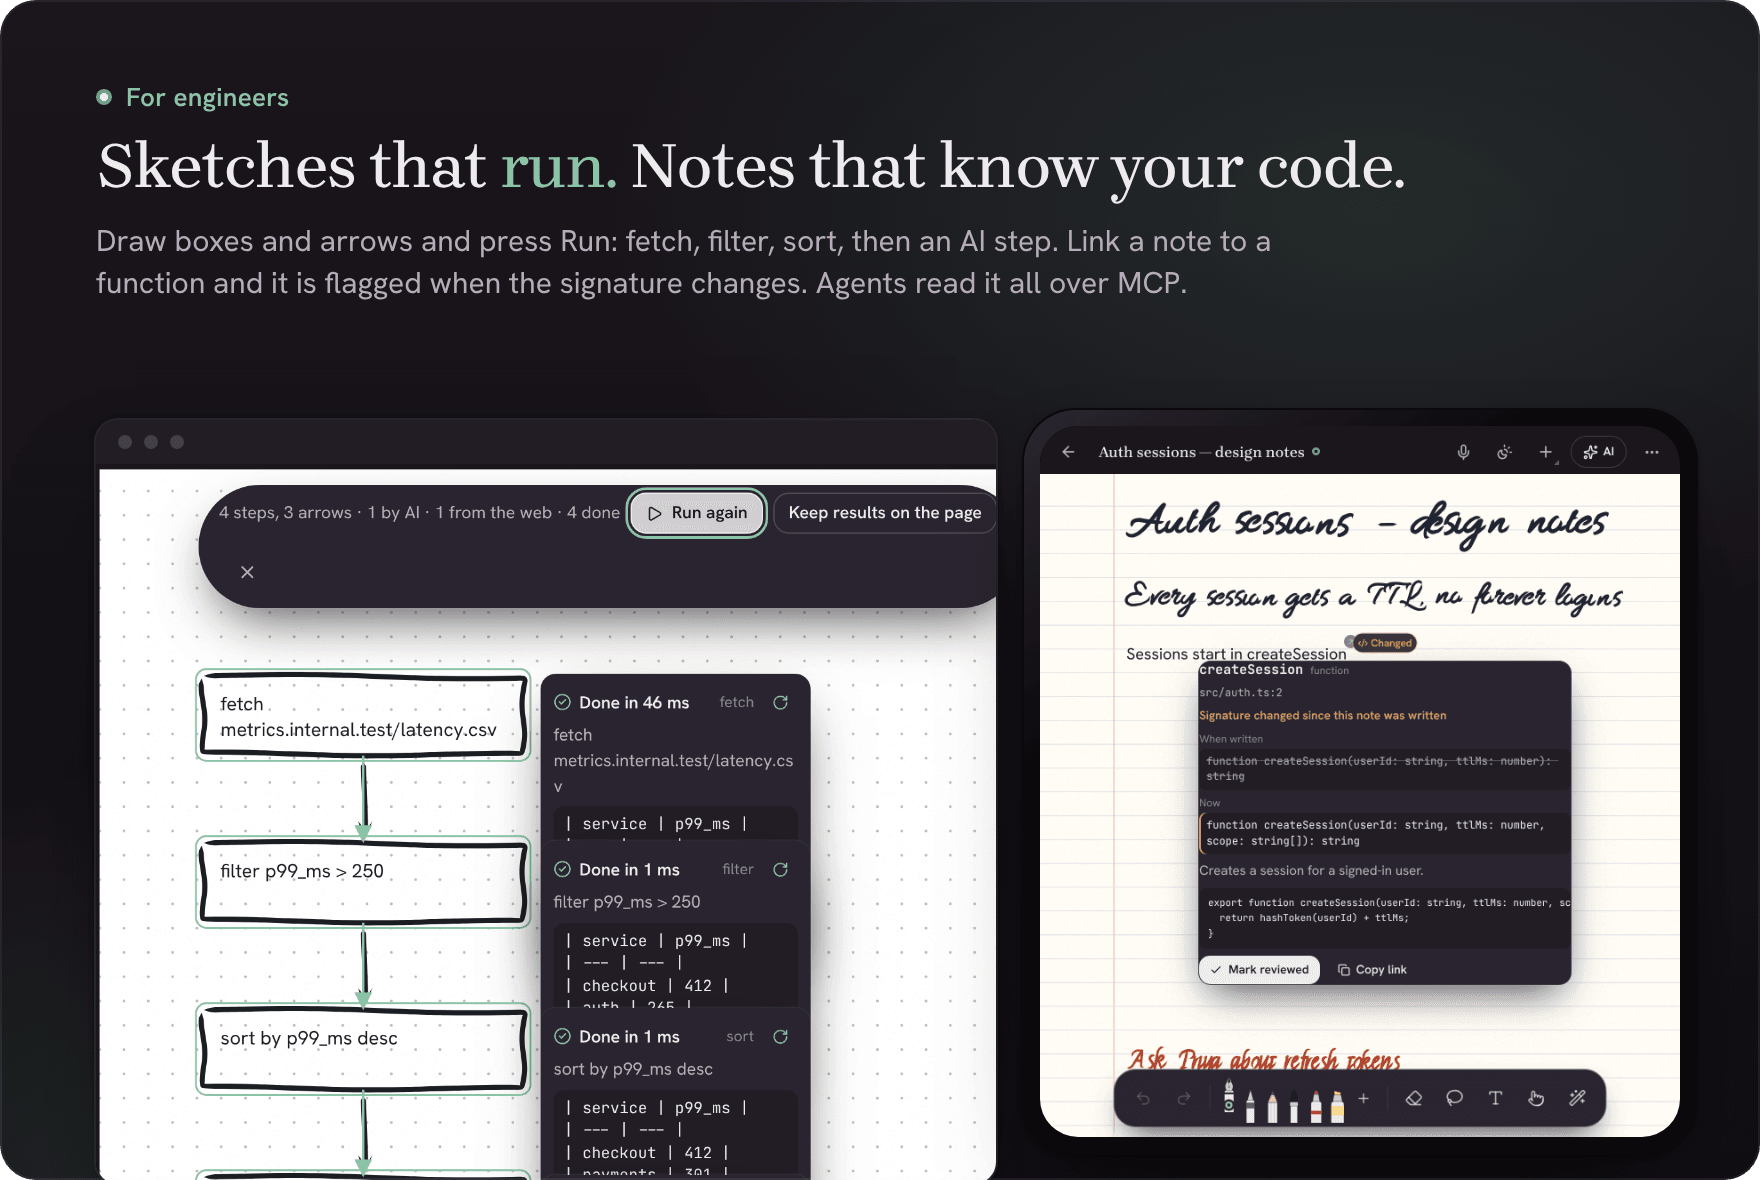
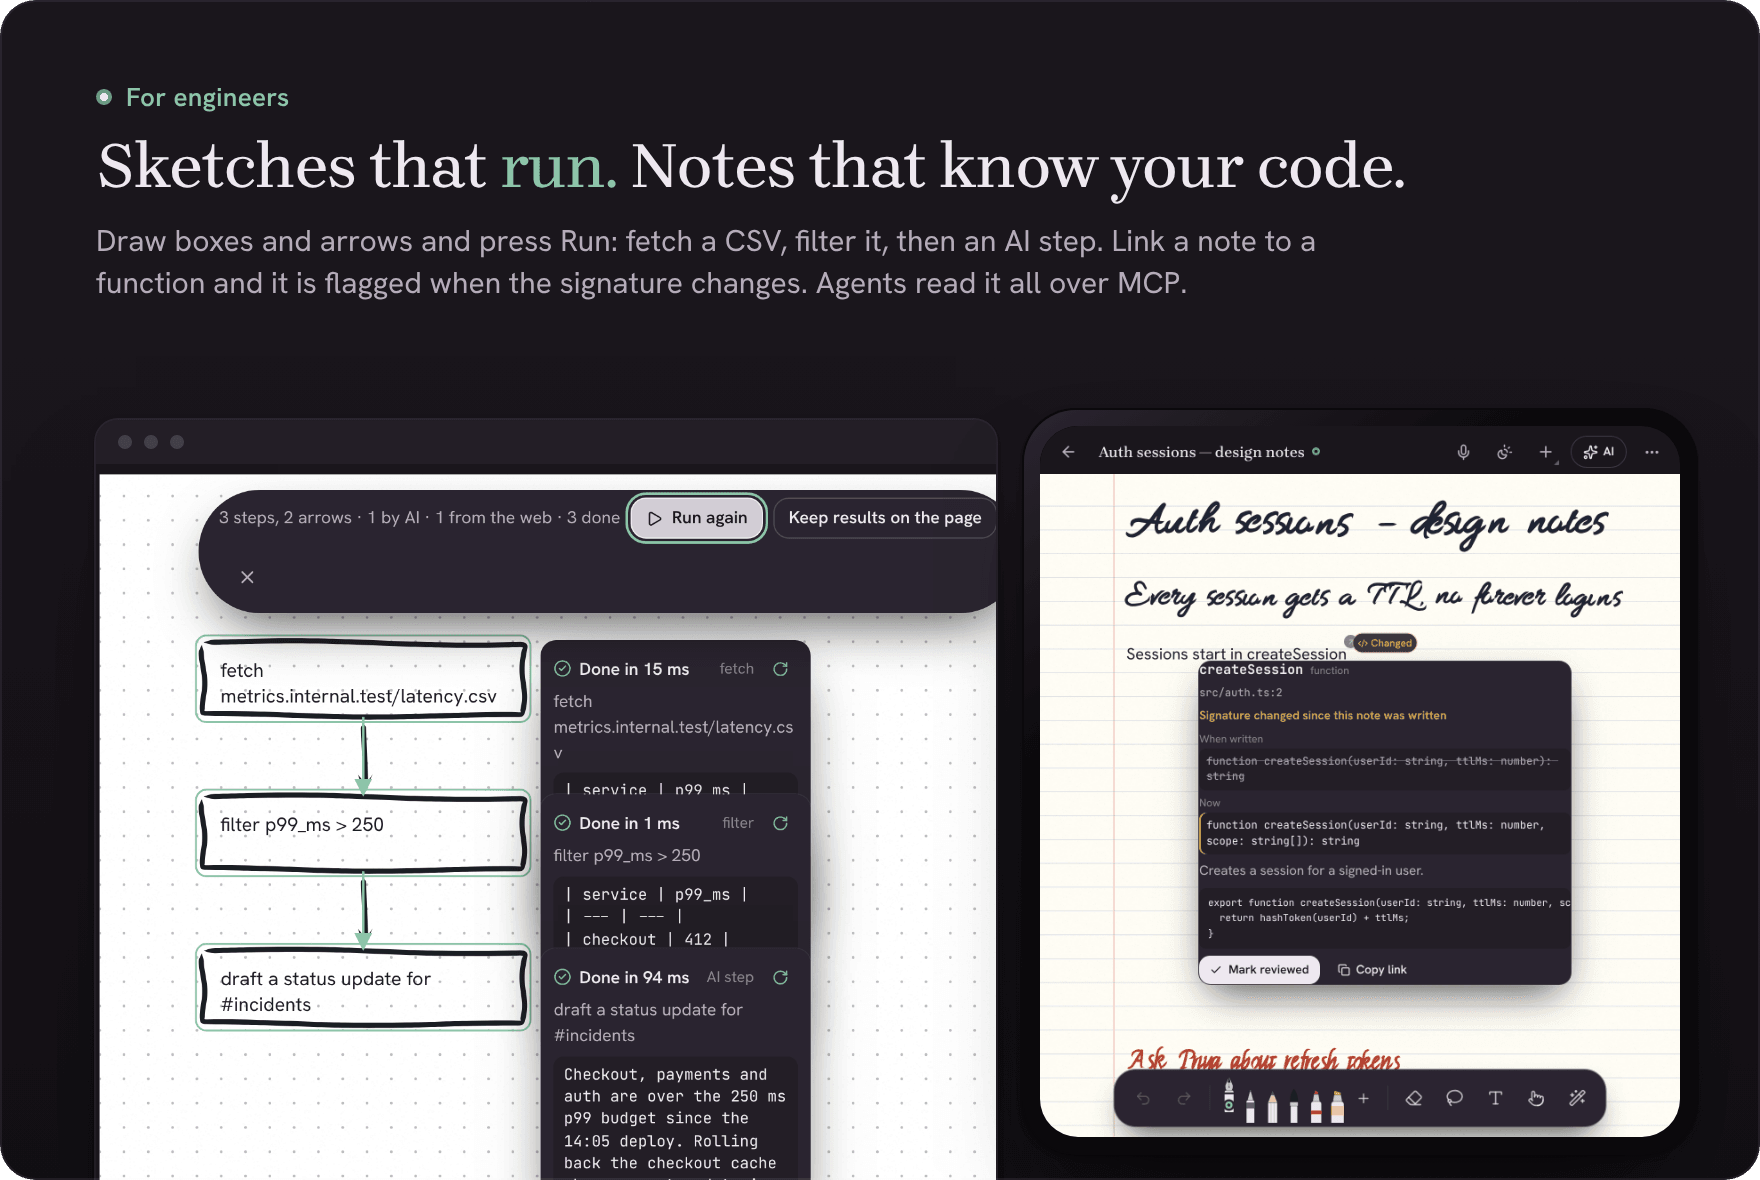
Showcase: the equation stays in view above its steps, the sketch shows its AI step, a flat background that palettises cleanly

Changed region(s): [[0.0938, 0.4881, 0.5625, 1.0], [0.0625, 0.3966, 0.5625, 0.4576], [0.4062, 0.1831, 0.75, 0.2136]]

diff --git a/apps/web/e2e/showcase.spec.ts b/apps/web/e2e/showcase.spec.ts
@@ -279,6 +279,8 @@ for (const s of ['light', 'dark'] as Scheme[]) {
     await page.keyboard.press('Escape');
     await page.keyboard.press('p');
     await shot(page, 'solve-fold', s);
+    // Scrolled so the handwritten equation and its result sit just above the steps dialog.
+    await view(page, 1.0, 175);
     await result.click();
     await page.getByRole('menuitem', { name: 'Show steps' }).click();
     await expect(page.getByRole('dialog', { name: 'Steps' })).toContainText('Worked out exactly on this device');
@@ -390,7 +392,7 @@ for (const s of ['light', 'dark'] as Scheme[]) {
 // ── Engineers: a sketch that runs, and notes that know the code ─────────────────────────────────
 
 const LATENCY_CSV = 'service,p99_ms\ncheckout,412\nsearch,188\nauth,265\npayments,301\nprofile,120\nfeed,233\n';
-const STATUS = 'Checkout (412 ms), payments (301 ms) and auth (265 ms) are over the 250 ms budget since the 14:05 deploy. Checkout is worst; rolling back its cache change now. Next update in 30 minutes.';
+const STATUS = 'Checkout, payments and auth are over the 250 ms p99 budget since the 14:05 deploy. Rolling back the checkout cache change; next update in 30 min.';
 
 const typeBox = (page: Page, text: string, x: number, y: number, width = 170) => page.evaluate(({ text, x, y, width }) => {
   const d = (window as any).__inkwright.doc;
@@ -407,7 +409,7 @@ for (const s of ['light', 'dark'] as Scheme[]) {
     await openNote(page, 'Checkout latency');
     await view(page, 1, 40);
     // Boxes and arrows drawn with the pen, a little wobbly, the way a whiteboard sketch is.
-    const W = 250, H = 62;
+    const W = 250, H = 58;
     const box = async (x: number, y: number) => {
       const [a, b] = await toScreen(page, x, y), [c, d] = await toScreen(page, x + W, y + H);
       const j = (p: Pt[], i: number): Pt[] => p.map(([px, py], n) => [px + Math.sin(n / 5 + i) * 1.2, py + Math.cos(n / 6 + i) * 1.2]);
@@ -419,17 +421,17 @@ for (const s of ['light', 'dark'] as Scheme[]) {
       const ang = Math.atan2(f1 - t1, e1 - s1), L = 12;
       await pen(page, [[e1 - L * Math.cos(ang - 0.5), f1 - L * Math.sin(ang - 0.5)], [e1, f1], [e1 - L * Math.cos(ang + 0.5), f1 - L * Math.sin(ang + 0.5)]], { pressure: 0.6 });
     };
-    const X = 80, Y = [200, 330, 460, 590];
+    const X = 80, Y = [170, 290, 410];
     for (const y of Y) await box(X, y);
-    const labels = ['fetch metrics.internal.test/latency.csv', 'filter p99_ms > 250', 'sort by p99_ms desc', 'draft a status update for #incidents'];
-    for (let i = 0; i < 4; i++) await typeBox(page, labels[i]!, X + 14, Y[i]! + 12, W - 28);
-    for (let i = 0; i < 3; i++) await arrow(X + W / 2, Y[i]! + H + 6, X + W / 2 + 2, Y[i + 1]! - 6);
+    const labels = ['fetch metrics.internal.test/latency.csv', 'filter p99_ms > 250', 'draft a status update for #incidents'];
+    for (let i = 0; i < 3; i++) await typeBox(page, labels[i]!, X + 14, Y[i]! + 12, W - 28);
+    for (let i = 0; i < 2; i++) await arrow(X + W / 2, Y[i]! + H + 6, X + W / 2 + 2, Y[i + 1]! - 6);
     await page.keyboard.press(`${await modKey(page)}+a`);
     await page.getByRole('toolbar', { name: /selected/ }).getByRole('button', { name: 'Run' }).click();
     const bar = page.getByRole('region', { name: 'Run the diagram' });
-    await expect(bar).toContainText('4 steps, 3 arrows');
+    await expect(bar).toContainText('3 steps, 2 arrows');
     await bar.getByRole('button', { name: 'Run', exact: true }).click();
-    await expect(page.getByRole('group', { name: /Step: draft a status update/ })).toContainText('rolling back', { timeout: 20_000 });
+    await expect(page.getByRole('group', { name: /Step: draft a status update/ })).toContainText('Rolling back', { timeout: 20_000 });
     await page.keyboard.press('p');
     await shot(page, 'pipeline-laptop', s);
   });
